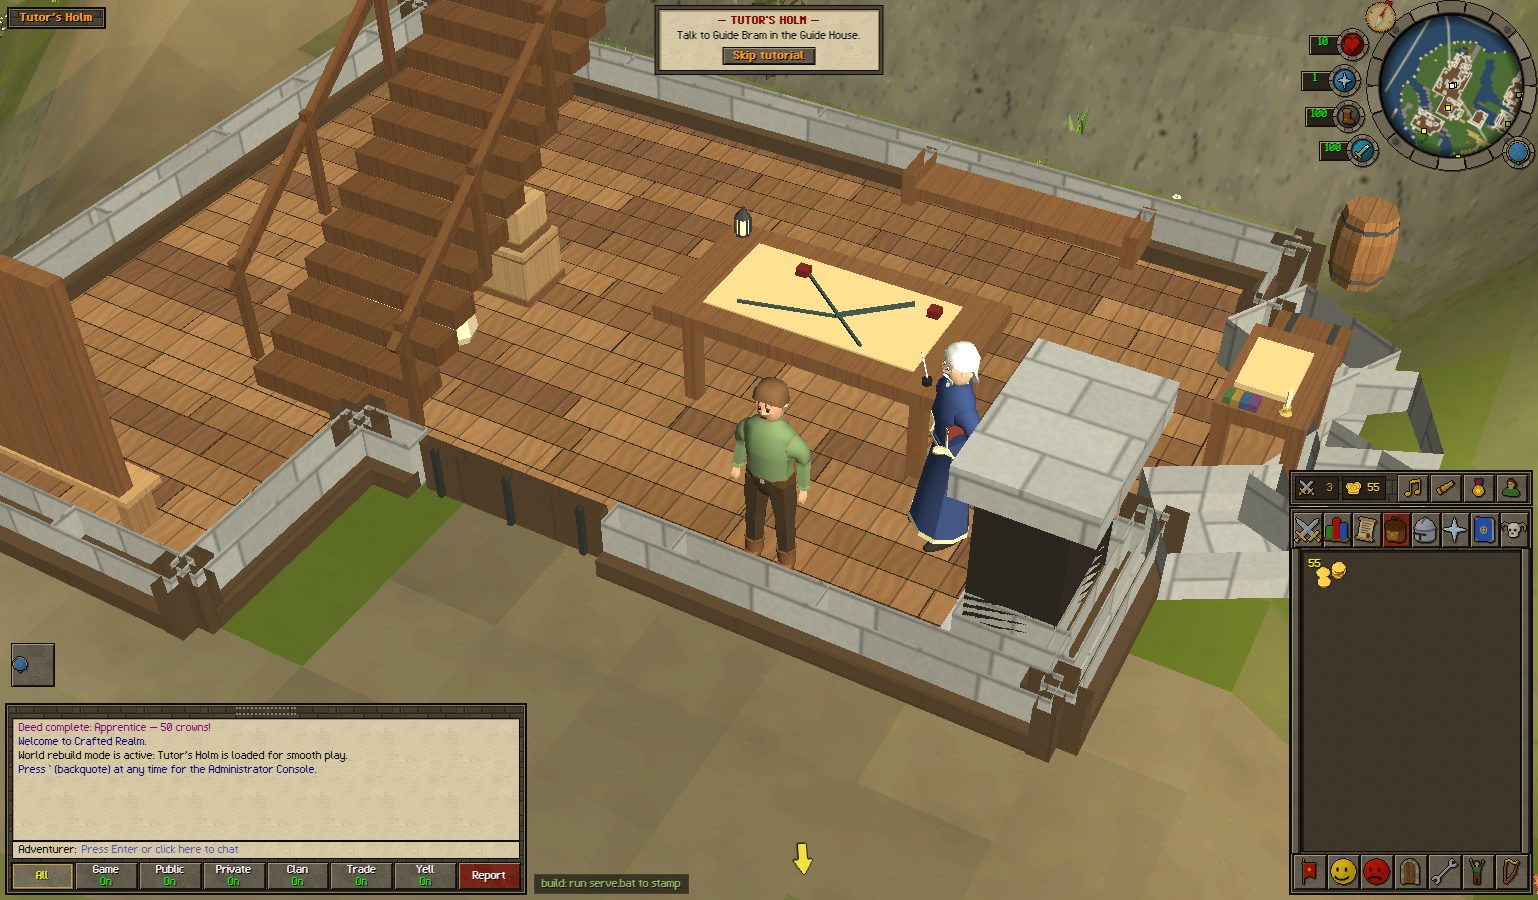
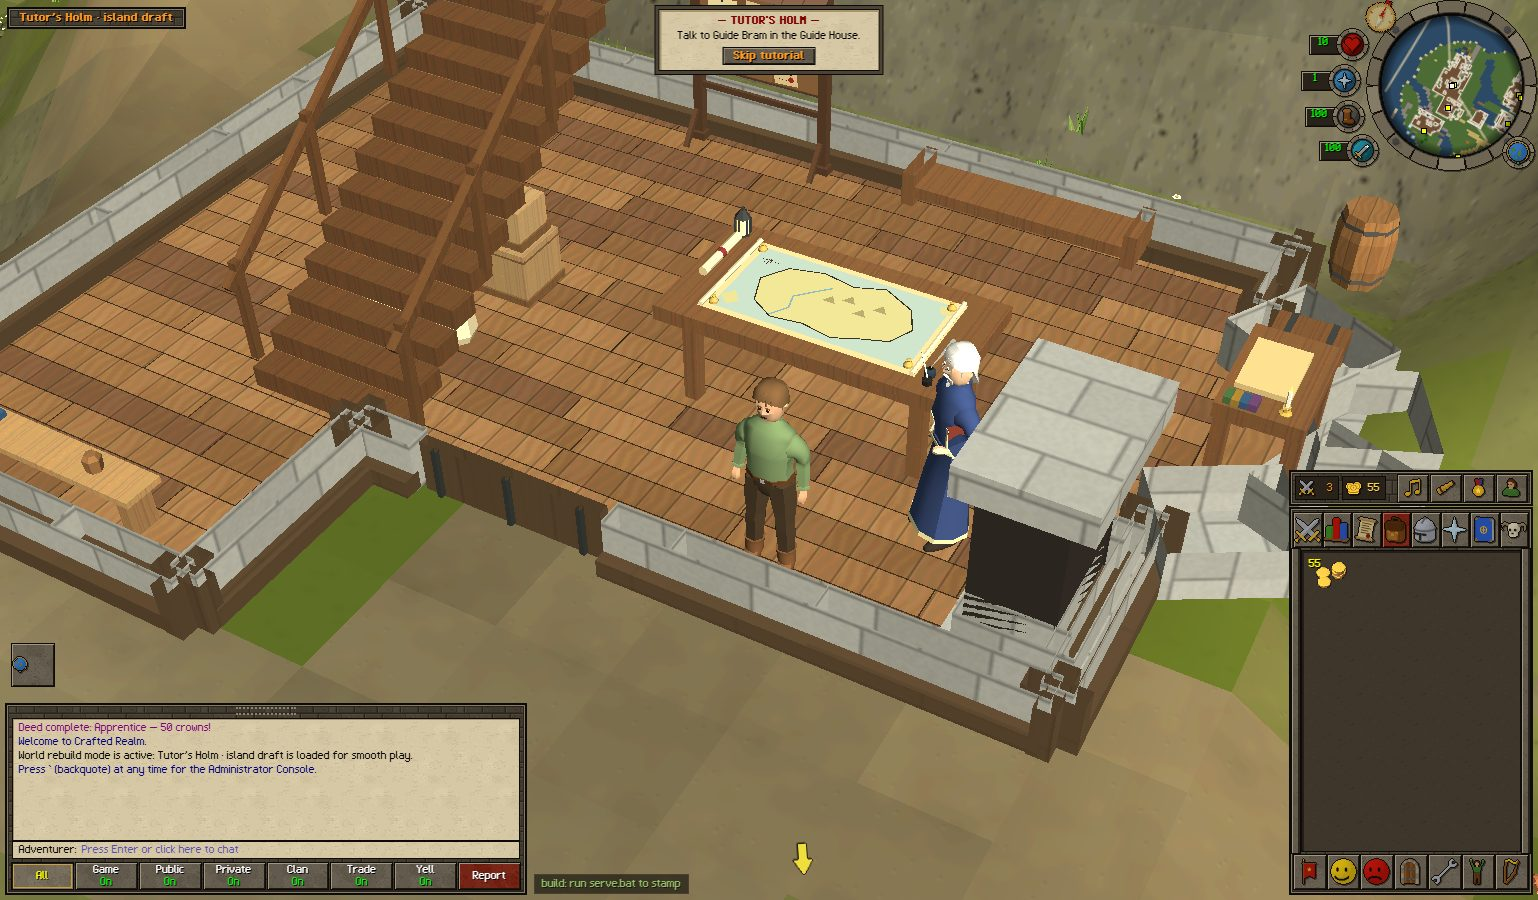
Quest Lodge (owner review 4, items 6 + 7): the quest board now stands free by the north wall facing the door, four steps from the entrance instead of ten round the stair (the wall-hung board and its crude map are gone); the table carries a proper region chart of the Holm; leaded cames over every pan

diff --git a/tools/capture_holm_review4.js b/tools/capture_holm_review4.js
@@ -94,6 +94,10 @@ const VIEWS={
  async guidewin(page,rec){rec.at=await stand(page,63,110,'exterior|land',[Math.PI*.9,0.55,9]);await look(page,66,104.6,[Math.PI*.95,0.5,7]);return snap(page,'7_guide_windows_out')},
  // 5 + 6: the Quest Lodge: entrance doors, inside (upper storey, the board)
  async lodgedoor(page,rec){const s=await page.evaluate(()=>HolmArrivalQA.qaStance('lodge','entrance'));rec.stance=s;if(!s)return null;rec.at=await stand(page,s.x,s.z,'.',[0,1.0,10],s.y);return snap(page,'5_lodge_entrance')},
+ // 6: walking in at the Quest Lodge door, the quest board straight ahead across the room (lodge door open: bread baked)
+ async lodgeentry(page,rec){await page.evaluate(()=>HolmIslandCurriculum.qaGrant(['study_route','equip_hatchet','chop_logs','light_fire','catch_fish','cook_fish','bake_bread']));await sleep(2500);
+  const s=await page.evaluate(()=>HolmArrivalQA.qaStance('lodge','entrance'));rec.stance=s;if(!s)return null;rec.at=await stand(page,s.x,s.z,'^b:lodge:',[0,0.95,10],s.y);
+  rec.route=await page.evaluate(()=>{const r=HolmArrivalQA.qaRoute('lodge','board');return r?r.length-1:null});return snap(page,'6_lodge_entry_board')},
  async lodgein(page,rec){const s=await page.evaluate(()=>HolmArrivalQA.qaStance('lodge','map'));rec.stance=s;if(!s)return null;rec.at=await stand(page,s.x,s.z,'^b:lodge:',[0.5,1.0,11],s.y);return snap(page,'5_lodge_inside')},
  async lodgein2(page,rec){const s=await page.evaluate(()=>HolmArrivalQA.qaStance('lodge','map'));if(!s)return null;rec.at=await stand(page,s.x,s.z,'^b:lodge:',[Math.PI*.8,1.0,11],s.y);return snap(page,'5_lodge_inside_b')},
  async lodgeboard(page,rec){const s=await page.evaluate(()=>HolmArrivalQA.qaStance('lodge','board'));rec.stance=s;if(!s)return null;rec.at=await stand(page,s.x,s.z,'^b:lodge:',[Math.PI,1.05,11],s.y);

diff --git a/tools/blender/build_holm_quest_lodge_review4.py b/tools/blender/build_holm_quest_lodge_review4.py
@@ -1,0 +1,124 @@
+"""Quest Lodge review-4 candidate (owner review 4, 2026-09-27).
+
+Owner: "hard to get to the quest board based on the way I go through the room ... put the quest board closer and maybe change
+the format of the building"; and for the lodge's things (with the Guide House's): "everything inside ... needs to look designed
+purposefully".
+From the textured lodge (holm-quest-lodge-oldschool-v1/lodge.blend, Blender 5.1), unchanged but for:
+ - the quest board leaves the annex behind the stair (it hung on the annex's south wall, under the upper floor, reached only
+   round the stair foot) and stands as a notice board on two posts against the north wall, facing the door straight across
+   the room: a planked board under a little shingled hood, notices pinned with iron nails and sealed in red wax, a quill in
+   its holder (parts Lodge_FurnishingBoard_*, so the lodge's 'Study quest board' service finds it);
+ - the map table's crude sheet (a parchment square with two crossed ink strokes and two red squares) becomes a region chart
+   laid out for study: a curled parchment with the coast of the lands beyond the Holm painted on it (sea wash, land, hills,
+   a river, a compass rose), four brass weights on its corners, an inkwell and quill, a rolled chart tied with ribbon
+   (parts Lodge_FurnishingMap_*, the 'Study region chart' service);
+ - leaded cames laid over every pane of the lodge's existing glazing (holm_leaded_glazing.lead_faces).
+Plan coordinates (x east, y up, z south; Blender (x, -z, y)), lodge-local like the source. Original design.
+Run: "Blender 5.1/blender.exe" -b .studio-workspaces/holm-quest-lodge-oldschool-v1/candidates/lodge.blend
+       --python tools/blender/build_holm_quest_lodge_review4.py
+Out: .studio-workspaces/holm-quest-lodge-review4-v1/candidates/{lodge.blend, lodge.glb, material-contract.json}"""
+import bpy, sys, math, random, shutil, json
+from pathlib import Path
+HERE = Path(__file__).resolve().parent; sys.path.insert(0, str(HERE)); ROOT = HERE.parents[1]
+from holm_interior_kit import Acc, M, sharp_by_angle
+import holm_purposeful_props as pp
+import holm_leaded_glazing as glz
+SRC = ROOT / '.studio-workspaces/holm-quest-lodge-oldschool-v1/candidates'
+OUT = ROOT / '.studio-workspaces/holm-quest-lodge-review4-v1/candidates'; OUT.mkdir(parents=True, exist_ok=True)
+rng = random.Random(20260927)
+for o in list(bpy.data.objects):
+    if o.name.startswith('Lodge_FurnishingBoard_') or o.name in ('Lodge_FurnishingMap_Faded_map_ink', 'Lodge_FurnishingMap_Burgundy_wax', 'Lodge_FurnishingMap_Original_parchment'):
+        bpy.data.objects.remove(o, do_unlink=True)
+oak = M('Board oak', '#6e4b2e'); oak_d = M('Board oak dark', '#4a3322'); shingle = M('Board shingle', '#5d4636'); iron = M('Board nail iron', '#2f302f')
+paper = [M('Notice parchment', '#dccb9c'), M('Notice parchment aged', '#cdb784'), M('Notice parchment pale', '#e6d9b2')]; ink = M('Notice ink', '#2a2520'); wax = M('Notice wax', '#8e2424')
+brass = M('Chart weight brass', '#b39146'); sea = M('Chart sea wash', '#9fb1a6'); land = M('Chart land', '#b9b27a'); hill = M('Chart hills', '#8f855a'); river = M('Chart river', '#6f8fa0')
+ribbon = M('Chart ribbon', '#7a2a2a'); glass_ink = M('Inkwell glass', '#27313a'); quill = M('Quill feather', '#e9e4d6')
+
+# ---- the notice board: north wall, facing south across the room to the door
+x0, x1, zb = -1.17, .27, -3.72           # board face at z -3.70, posts behind it (clear of the north window east of it)
+B = Acc('Lodge_FurnishingBoard_Stand')
+for px in (x0, x1):
+    B.box(px - .05, px + .05, 0, 2.02, zb - .06, zb + .04, oak_d)
+    B.box(px - .09, px + .09, 0, .08, zb - .1, zb + .08, oak_d)                  # foot
+    B.beam((px, .35, zb + .06), (px, .02, zb + .3), .05, .05, oak_d)            # raking strut to the floor
+bw = (x1 - x0 - .1) / 5
+for i in range(5):                                                             # vertical boards with dark gaps
+    B.box(x0 + .05 + i * bw + .006, x0 + .05 + (i + 1) * bw - .006, .86, 1.86, zb - .02, zb + .02, oak if i % 2 else M('Board oak light', '#7a5636'))
+B.box(x0 + .05, x1 - .05, .84, .86, zb - .03, zb + .03, oak_d); B.box(x0 + .05, x1 - .05, 1.86, 1.9, zb - .03, zb + .03, oak_d)
+B.box(x0 + .05, x1 - .05, .6, .66, zb - .02, zb + .02, oak_d)                    # rail under the board
+# the little hood: two shingled slopes (each face twice, on its own vertices, so both sides draw)
+B.poly([(x0 - .12, 1.96, zb - .24), (x1 + .12, 1.96, zb - .24), (x1 + .12, 2.16, zb), (x0 - .12, 2.16, zb)], [(0, 1, 2, 3)], shingle)
+B.poly([(x0 - .12, 1.96, zb - .24), (x1 + .12, 1.96, zb - .24), (x1 + .12, 2.16, zb), (x0 - .12, 2.16, zb)], [(3, 2, 1, 0)], shingle)
+B.poly([(x0 - .12, 2.16, zb), (x1 + .12, 2.16, zb), (x1 + .12, 1.9, zb + .34), (x0 - .12, 1.9, zb + .34)], [(0, 1, 2, 3)], shingle)
+B.poly([(x0 - .12, 2.16, zb), (x1 + .12, 2.16, zb), (x1 + .12, 1.9, zb + .34), (x0 - .12, 1.9, zb + .34)], [(3, 2, 1, 0)], shingle)
+for k in range(8):                                                              # shingle courses
+    xx = x0 - .1 + k * (x1 - x0 + .2) / 8
+    B.beam((xx, 2.155, zb + .01), (xx, 1.905, zb + .33), .012, .01, oak_d)
+B.box(x0 - .14, x1 + .14, 2.15, 2.19, zb - .03, zb + .03, oak_d)                  # ridge
+B.box(x0 + .45, x1 - .45, 1.9, 1.96, zb + .015, zb + .03, oak_d)                  # header plank under the hood
+# a quill in a holder on the left post
+B.lathe(x0 + .12, zb + .07, 1.0, [(.028, 0), (.03, .05), (.022, .06)], 8, iron, top=True)
+B.build(None)
+N = Acc('Lodge_FurnishingBoard_Notices'); fz = zb + .024
+for i, (cx, cy, w, h, rot) in enumerate(((-.3, 1.42, .34, .44, .05), (.1, 1.5, .3, .36, -.04), (.47, 1.38, .32, .42, .03), (-.12, 1.02, .3, .22, -.02), (.4, .98, .26, .2, .06))):
+    c, s = math.cos(rot), math.sin(rot); cx = cx + (x0 + x1) / 2 - .1   # laid out about the board's centre
+    def P(a, b): return (cx + a * c - b * s, cy + a * s + b * c, fz)
+    N.poly([P(-w / 2, -h / 2), P(w / 2, -h / 2), P(w / 2, h / 2), P(-w / 2, h / 2)], [(0, 1, 2, 3)], paper[i % 3])
+    for li in range(4 if h > .3 else 2):                                          # lines of writing
+        yy = h / 2 - .07 - li * .07
+        N.poly([P(-w / 2 + .04, yy), P(w / 2 - .06 - .03 * (li % 2), yy), P(w / 2 - .06 - .03 * (li % 2), yy - .012), P(-w / 2 + .04, yy - .012)], [(0, 1, 2, 3)], ink)
+    sx, sy, _ = P(w / 2 - .07, -h / 2 + .07)
+    N.tube((sx, sy, fz), (sx, sy, fz + .008), .03, 10, wax)                      # the wax seal, a disc on the notice's face
+    nx, ny, _ = P(0, h / 2 - .02); N.box(nx - .01, nx + .01, ny - .01, ny + .01, fz, fz + .012, iron)
+N.build(None)
+N2 = Acc('Lodge_FurnishingBoard_Quill')
+N2.poly([(x0 + .12, 1.06, zb + .07), (x0 + .16, 1.34, zb + .1), (x0 + .2, 1.36, zb + .1), (x0 + .13, 1.08, zb + .07)], [(0, 1, 2, 3)], quill)
+N2.poly([(x0 + .12, 1.06, zb + .07), (x0 + .16, 1.34, zb + .1), (x0 + .2, 1.36, zb + .1), (x0 + .13, 1.08, zb + .07)], [(3, 2, 1, 0)], quill)
+N2.build(None)
+
+# ---- the region chart on the map table (top at y 1.01, x 0.70..3.30, z -1.20..0.20)
+T = 1.012
+C = Acc('Lodge_FurnishingMap_Chart')
+cx0, cx1, cz0, cz1 = 1.02, 2.98, -1.02, .02
+C.poly([(cx0, T, cz0), (cx1, T, cz0), (cx1, T, cz1), (cx0, T, cz1)], [(0, 1, 2, 3)], paper[1])
+for (a, b) in ((cx0, cx0 + .06), (cx1 - .06, cx1)):                               # the curled short edges
+    C.tube(((a + b) / 2, T + .02, cz0), ((a + b) / 2, T + .02, cz1), .022, 8, paper[0], caps=True)
+C.poly([(cx0 + .1, T + .002, cz0 + .06), (cx1 - .1, T + .002, cz0 + .06), (cx1 - .1, T + .002, cz1 - .06), (cx0 + .1, T + .002, cz1 - .06)], [(0, 1, 2, 3)], sea)
+def island(pts, m, y):
+    V = [(x, y, z) for x, z in pts]; C.poly(V, [tuple(range(len(V)))], m)
+coast = [(1.3, -.55), (1.45, -.78), (1.75, -.86), (2.05, -.8), (2.3, -.9), (2.6, -.74), (2.72, -.5), (2.62, -.28), (2.4, -.2), (2.18, -.1), (1.9, -.16), (1.62, -.12), (1.4, -.26)]
+island(coast, land, T + .004)
+island([(1.12, -.2), (1.2, -.3), (1.3, -.18), (1.22, -.1)], land, T + .004)       # an islet (the Holm, marked)
+island([(2.78, -.9), (2.88, -.95), (2.92, -.84), (2.84, -.8)], land, T + .004)
+for hx, hz in ((1.95, -.55), (2.1, -.62), (2.25, -.5), (2.38, -.62)):            # hills
+    C.poly([(hx - .06, T + .006, hz + .03), (hx + .06, T + .006, hz + .03), (hx, T + .006, hz - .06)], [(0, 1, 2)], hill)
+riv = [(1.6, -.14), (1.7, -.3), (1.66, -.45), (1.8, -.6), (1.9, -.7)]
+for a, b in zip(riv, riv[1:]): C.beam((a[0], T + .007, a[1]), (b[0], T + .007, b[1]), .014, .002, river)
+for a, b in zip(coast, coast[1:] + coast[:1]): C.beam((a[0], T + .007, a[1]), (b[0], T + .007, b[1]), .01, .002, ink)
+rx, rz = 1.25, -.8                                                               # compass rose
+for k in range(8):
+    ang = k * math.pi / 4; L = .1 if k % 2 == 0 else .06
+    C.poly([(rx, T + .008, rz), (rx + math.cos(ang + .25) * .025, T + .008, rz + math.sin(ang + .25) * .025), (rx + math.cos(ang) * L, T + .008, rz + math.sin(ang) * L)], [(0, 1, 2)], wax if k == 6 else ink)
+for wx, wz in ((cx0 + .1, cz0 + .1), (cx1 - .1, cz0 + .1), (cx0 + .1, cz1 - .1), (cx1 - .1, cz1 - .1)):   # brass weights
+    C.lathe(wx, wz, T, [(.04, 0), (.04, .02), (.028, .035), (.012, .05), (.02, .065), (0, .075)], 10, brass, top=False)
+C.lathe(3.08, -.05, T - .002, [(.04, 0), (.05, .03), (.045, .06), (.02, .07), (.024, .08)], 10, glass_ink, top=True, top_m=M('Ink', '#101010'))   # inkwell
+C.poly([(3.08, T + .08, -.05), (3.2, T + .34, -.16), (3.24, T + .35, -.13), (3.09, T + .09, -.04)], [(0, 1, 2, 3)], quill)
+C.poly([(3.08, T + .08, -.05), (3.2, T + .34, -.16), (3.24, T + .35, -.13), (3.09, T + .09, -.04)], [(3, 2, 1, 0)], quill)
+C.tube((.86, T + .045, -.95), (.86, T + .045, -.35), .042, 10, paper[0], caps=True, cap_m=paper[1])  # rolled chart
+C.tube((.86, T + .045, -.68), (.86, T + .045, -.62), .046, 10, ribbon, caps=False)
+C.build(None)
+
+# ---- lead cames over every pane of the lodge's existing glazing
+g = bpy.data.objects.get('Lodge_Glazing_Muted_old_glass')
+if g is not None: glz.lead_faces(g, 'Lodge_Glazing_Leads')
+for o in bpy.data.objects:
+    if o.type == 'MESH' and o.name.startswith(('Lodge_FurnishingBoard_', 'Lodge_FurnishingMap_Chart', 'Lodge_Glazing_Leads')):
+        sharp_by_angle(o, 30)
+        # recalc normals like the building scripts do
+        import bmesh
+        bm = bmesh.new(); bm.from_mesh(o.data); bmesh.ops.recalc_face_normals(bm, faces=bm.faces); bm.to_mesh(o.data); bm.free()
+bpy.context.scene.frame_set(1); bpy.context.view_layer.update()
+bpy.ops.wm.save_as_mainfile(filepath=str(OUT / 'lodge.blend'))
+bpy.ops.export_scene.gltf(filepath=str(OUT / 'lodge.glb'), export_format='GLB', export_yup=True, export_extras=True)
+shutil.copyfile(SRC / 'material-contract.json', OUT / 'material-contract.json')
+print('[LODGE_REVIEW4] saved', OUT)

diff --git a/tools/blender/holm_leaded_glazing.py b/tools/blender/holm_leaded_glazing.py
@@ -79,3 +79,46 @@ def window(B, name, axis, plane, a, b, v0, v1, mullion=None, **kw):
         return light(B, name, axis, plane, a, b, v0, v1, **kw)
     m = (a + b) / 2
     return light(B, name, axis, plane, a, m - mullion, v0, v1, **kw) + light(B, name, axis, plane, m + mullion, b, v0, v1, **kw)
+
+
+def lead_faces(obj, name, dw=.2, dh=.28, off=.004):
+    """Lay lead cames (an edge came and a diamond lattice, both faces) over every four-sided pane of an existing glazing
+    mesh, as a new mesh object `name` beside it (same parent and transform). Works in the mesh's own coordinates."""
+    import bmesh
+    from mathutils import Vector
+    lead = materials()[1]
+    V = []; F = []
+    me = obj.data
+    def strip(o, uvec, vvec, n, a, b, wid):
+        du, dv = b[0] - a[0], b[1] - a[1]; L = (du * du + dv * dv) ** .5
+        if L < .03: return
+        nu, nv = -dv / L * wid / 2, du / L * wid / 2
+        for side in (-1, 1):
+            q = [(a[0] + nu, a[1] + nv), (b[0] + nu, b[1] + nv), (b[0] - nu, b[1] - nv), (a[0] - nu, a[1] - nv)]
+            k = len(V)
+            for u, v in q: V.append(o + uvec * u + vvec * v + n * (side * off))
+            F.append((k, k + 1, k + 2, k + 3) if side > 0 else (k + 3, k + 2, k + 1, k))
+    for p in me.polygons:
+        if len(p.vertices) != 4: continue
+        P = [me.vertices[i].co.copy() for i in p.vertices]
+        n = p.normal.copy()
+        up = Vector((0, 0, 1))   # Blender up
+        vvec = (up - n * up.dot(n))
+        if vvec.length < 1e-4: continue   # a horizontal pane: skip
+        vvec.normalize(); uvec = vvec.cross(n).normalized()
+        o = P[0]; us = [(q - o).dot(uvec) for q in P]; vs = [(q - o).dot(vvec) for q in P]
+        u0, u1, v0, v1 = min(us), max(us), min(vs), max(vs)
+        if u1 - u0 < .08 or v1 - v0 < .08: continue
+        for a, b in (((u0, v0), (u1, v0)), ((u1, v0), (u1, v1)), ((u1, v1), (u0, v1)), ((u0, v1), (u0, v0))):
+            strip(o, uvec, vvec, n, a, b, .03)
+        w, h = u1 - u0, v1 - v0; nn = int(w / dw + h / dh) + 3
+        for sgn in (1, -1):
+            d = (sgn * dw, dh)
+            for k in range(-nn, nn + 1):
+                seg = _clip((u0 + dw / 2 + k * dw, v0), d, u0, u1, v0, v1)
+                if seg: strip(o, uvec, vvec, n, seg[0], seg[1], .014)
+    if not F: return None
+    data = bpy.data.meshes.new(name); data.from_pydata([tuple(v) for v in V], [], F); data.update()
+    ob = bpy.data.objects.new(name, data); bpy.context.collection.objects.link(ob)
+    ob.parent = obj.parent; ob.matrix_world = obj.matrix_world.copy(); data.materials.append(lead)
+    return ob

diff --git a/tools/blender/render_proof_views.py b/tools/blender/render_proof_views.py
@@ -1,0 +1,29 @@
+"""Proof renders of a candidate .blend from plan-coordinate views (owner review 4 tooling).
+Run: blender -b <file.blend> --python tools/blender/render_proof_views.py -- <out dir> <views.json>
+views.json: [{"name": "...", "eye": [x, y, z], "look": [x, y, z], "hide": ["prefix", ...], "show": ["prefix", ...]}]
+(plan coordinates: x east, y up, z south; Blender (x, -z, y))."""
+import bpy, sys, math, json
+from pathlib import Path
+from mathutils import Vector
+args = sys.argv[sys.argv.index('--') + 1:]
+out = Path(args[0]); out.mkdir(parents=True, exist_ok=True); views = json.loads(Path(args[1]).read_text())
+sc = bpy.context.scene
+for eng in ('BLENDER_EEVEE_NEXT', 'BLENDER_EEVEE'):
+    try: sc.render.engine = eng; break
+    except TypeError: pass
+sc.render.resolution_x, sc.render.resolution_y = 960, 640
+w = sc.world or bpy.data.worlds.new('proof'); sc.world = w; w.use_nodes = True
+bg = next(n for n in w.node_tree.nodes if n.type == 'BACKGROUND'); bg.inputs[0].default_value = (.55, .6, .65, 1); bg.inputs[1].default_value = 1.2
+sun = bpy.data.objects.new('ProofSun', bpy.data.lights.new('ProofSun', 'SUN')); sun.data.energy = 3.0; sun.rotation_euler = (math.radians(50), 0, math.radians(30)); sc.collection.objects.link(sun)
+cam = bpy.data.objects.new('ProofCam', bpy.data.cameras.new('ProofCam')); sc.collection.objects.link(cam); sc.camera = cam; cam.data.lens = 35
+def P(p): return Vector((p[0], -p[2], p[1]))
+for v in views:
+    changed = []
+    for o in sc.objects:
+        if o.type != 'MESH': continue
+        want = (not v.get('show') or any(o.name.startswith(s) for s in v['show'])) and not any(o.name.startswith(h) for h in v.get('hide', []))
+        if o.hide_render == want: o.hide_render = not want; changed.append(o)
+    cam.location = P(v['eye']); d = P(v['look']) - cam.location; cam.rotation_euler = d.to_track_quat('-Z', 'Y').to_euler()
+    sc.render.filepath = str(out / (v['name'] + '.png')); bpy.ops.render.render(write_still=True)
+    for o in changed: o.hide_render = not o.hide_render
+print('[PROOF_VIEWS] wrote', len(views), 'to', out)
